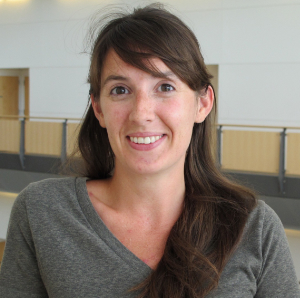
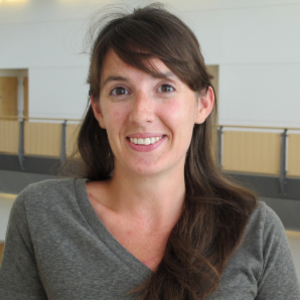
Picture changes and order

diff --git a/index.html b/index.html
@@ -260,11 +260,24 @@
                           <ul class="social-icons clearfix">
                               <li><a><span class="fa fa-twitter"></span></a></li>
                           </ul>
+                        </div><!-- person -->
+                    </div><div class="col-md-3 col-sm-5">
+                        <div class="person">
+                            <img src="images/Team_Becca.jpg" alt="" class="img-responsive">
+                            <div class="person-content">
+                                <h4>Rebecca Bindbeutel, M.S.</h4>
+                                <h5 class="role">Administrative Lab Manager</h5>
+                                <h6>RBindbeutel (at) danforthcenter.org</h6>
+                                <h6>ORCID ID: 0000-0001-7994-2073</h6>
+                            </div>
+                            <ul class="social-icons clearfix">
+                                <li><a><span class="fa fa-twitter"></span></a></li>
+                            </ul>
                           </div><!-- person -->
                       </div>
                       <div class="col-md-3 col-sm-5">
                           <div class="person">
-                              <img src="images/Team_MEW.png" alt="" class="img-responsive">
+                              <img src="images/Team_MEW.jpg" alt="" class="img-responsive">
                               <div class="person-content">
                                   <h4>Maggie Wilson, Ph.D.</h4>
                                   <h5 class="role">Project Manager and Intergrator, APT Program </h5>
@@ -315,34 +328,20 @@
                               <ul class="social-icons clearfix">
                                   <li><a><span class="fa fa-twitter"></span></a></li>
                                   </ul>
-                          </div><!-- person -->
-                      </div><div class="col-md-3 col-sm-5">
-                          <div class="person">
-                              <img src="images/Team_Becca.jpg" alt="" class="img-responsive">
-                              <div class="person-content">
-                                  <h4>Rebecca Bindbeutel, M.S.</h4>
-                                  <h5 class="role">Administrative Lab Manager</h5>
-                                  <h6>RBindbeutel (at) danforthcenter.org</h6>
-                                  <h6>ORCID ID: 0000-0001-7994-2073</h6>
-                              </div>
-                              <ul class="social-icons clearfix">
-                                  <li><a><span class="fa fa-twitter"></span></a></li>
-                              </ul>
-                          </div><!-- person -->
-                      </div><div class="col-md-3 col-sm-5">
-                          <div class="person">
-                              <img src="images/Team_adele.jpg" alt="" class="img-responsive">
-                              <div class="person-content">
-                                  <h4>Adele Ayers</h4>
-                                  <h5 class="role">Laboratory Assistant</h5>
-                                      <h6>_</h6>
-                                  <h6>AAyers (at) danforthcenter.org</h6>
-                                  <h6>ORCID ID: Coming Soon             </h6>
-                                  <h6></h6>
-                              </div>
-                              <ul class="social-icons clearfix">
-                                  <li><a><span class="fa fa-twitter"></span></a></li>
-                              </ul>
+                                </div><!-- person -->
+                            </div><div class="col-md-3 col-sm-5">
+                                <div class="person">
+                                    <img src="images/Team_adele.jpg" alt="" class="img-responsive">
+                                    <div class="person-content">
+                                        <h4>Adele Ayers</h4>
+                                        <h5 class="role">Laboratory Assistant</h5>
+                                        <h6>AAyers (at) danforthcenter.org</h6>
+                                        <h6>ORCID ID: Coming Soon             </h6>
+                                        <h6></h6>
+                                    </div>
+                                    <ul class="social-icons clearfix">
+                                        <li><a><span class="fa fa-twitter"></span></a></li>
+                                    </ul>
               </div>
         </div>
             </section>
